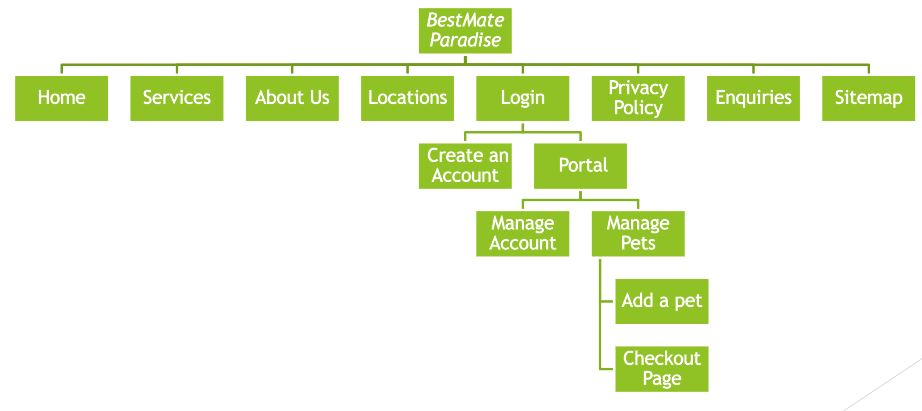
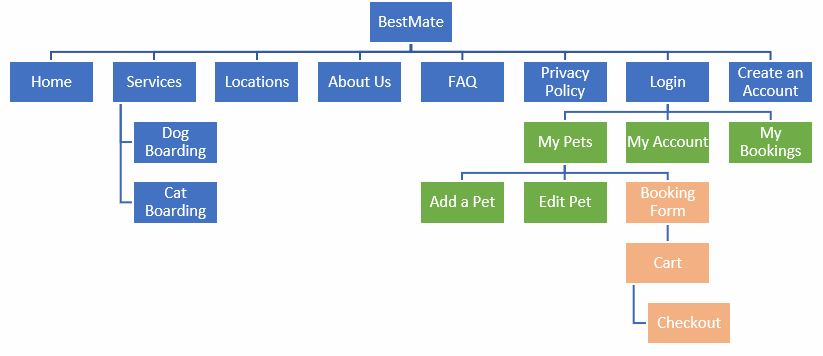
sitemap updated

diff --git a/sitemap.html b/sitemap.html
@@ -29,6 +29,28 @@
     <div style="text-align: center">
         <img style="margin: auto; width: 70%" src="pic/Sitemap.JPG" alt="Sitemap">
     </div>
+
+    <h3>For administrative use only</h3>
+    <ul>
+        <li><a href="index.html">Home</a></li>
+        <li><a href="service.html">Services</a></li>
+        <li style="margin-left:20px;"><a href="dog_boarding.html">Dog Boarding</a></li>
+        <li style="margin-left:20px;"><a href="cat_boarding.html">Cat Boarding</a></li>
+        <li><a href="locations.html">Locations</a></li>
+        <li><a href="aboutUs.html">About Us</a></li>
+        <li><a href="FAQ.html">FAQ</a></li>
+        <li><a href="policy.html">Privacy Policy</a></li>
+        <li><a href="create_account_page.html">Create an Account</a></li>        
+        <li><a href="login.html">Login</a></li>
+        <li style="margin-left:20px;"><a href="portal-my-account.html">My Account</a></li>
+        <li style="margin-left:20px;"><a href="portal-my-bookings.html">My Bookings</a></li>
+        <li style="margin-left:20px;"><a href="portal-my-pets.html">My Pets</a></li>
+        <li style="margin-left:40px;"><a href="add_new_pet.html">Add New Pet</a></li>
+        <li style="margin-left:40px;"><a href="manage_pet_Jerry.html">Manage a Pet</a></li>
+        <li style="margin-left:40px;"><a href="booking_page_Jerry.html">Booking Page</a></li>
+        <li style="margin-left:60px;"><a href="cart_page.html">Cart</a></li>
+        <li style="margin-left:80px;"><a href="checkout.html">Checkout</a></li>
+    </ul>
 </body>
 
 <footer>

diff --git a/login.html b/login.html
@@ -95,7 +95,7 @@
     z-index: 1;
     bottom: 125%;
     left: 50%;
-    margin-left: 350px;
+    margin-left: 50%;
 
     }
 
